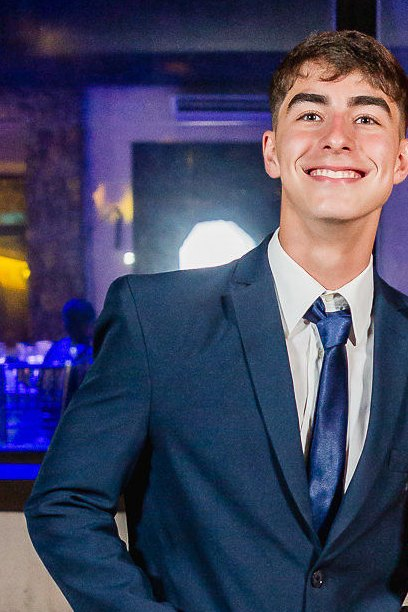
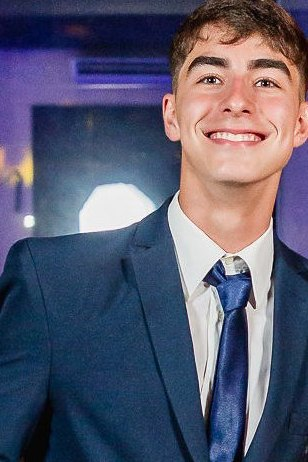
Reescribir el hero y las tres ideas, y reencuadrar el retrato
La frase grande sonaba a texto de máquina: abstracta, sin calor y sin decir
qué hago. Ahora es "Estudio y trabajo. Aprendo y aplico.", y la bajada
presenta los cuatro lugares que enumera la máquina de escribir.

Las tres ideas de "Cómo pienso":
- 01 conserva el título; el cuerpo pierde el arranque explicativo y se queda
  con la anécdota, que es lo que valía.
- 02 pasa de "hacer muchas cosas no es dispersarse" a emprender y formarse
  como la misma cosa.
- 03 pasa de Byung-Chul Han a la fe y la pregunta por el para qué. Salen los
  nombres de los libros; la lectura queda como lo que conecta el resto.

"En el medio leo, toco la guitarra y voy a misa" se resume en "mi vida
personal", en el párrafo de Quién soy y en las dos descripciones del link.

Los cuatro accesos de contacto eran dos píldoras y dos enlaces subrayados:
ahora son la misma píldora con cuatro llamados distintos. La clase .textlink
queda sin uso y se borra.

El retrato tenía la cara al 78% del ancho y seis décimos de fondo
desenfocado. Se reencuadra a 308x462 y se agranda de 17rem a 20rem. Con el
archivo de 408x612 que hay en assets no se puede centrar del todo: la cara
queda al 71%, y para bajarla al 50% haría falta recortar desde la foto
original del teléfono.

og.png llevaba la frase vieja pintada adentro y la foto con el encuadre
viejo. Se regeneró repintando sólo esas dos zonas: el nombre, el filete
naranja, el marcador amarillo y el epígrafe quedan pixel por pixel iguales.
[…]

diff --git a/index.html b/index.html
@@ -15,8 +15,8 @@
   ═══════════════════════════════════════════════════════════════════════
 -->
 
-<title>Lautaro Altamiranda Mastri — Hacer visible lo que vale</title>
-<meta name="description" content="Tengo 19 años y hago demasiadas cosas a la vez: vendo viajes en Mareterra, construyo Costear —un software de costos con IA— y estudio Administración. En el medio leo, toco la guitarra y voy a misa. Tucumán, Argentina.">
+<title>Lautaro Altamiranda Mastri — Estudio y trabajo. Aprendo y aplico.</title>
+<meta name="description" content="Tengo 19 años y hago demasiadas cosas a la vez: vendo viajes en Mareterra, construyo Costear —un software de costos con IA— y estudio Administración. Tucumán, Argentina.">
 <meta name="author" content="Lautaro Altamiranda Mastri">
 <meta name="theme-color" content="#FDF8F0" media="(prefers-color-scheme: light)">
 <meta name="theme-color" content="#171310" media="(prefers-color-scheme: dark)">
@@ -33,16 +33,16 @@
 <meta property="og:type" content="website">
 <meta property="og:locale" content="es_AR">
 <meta property="og:site_name" content="Lautaro Altamiranda Mastri">
-<meta property="og:title" content="Lautaro Altamiranda Mastri — Hacer visible lo que vale">
-<meta property="og:description" content="Tengo 19 años y hago demasiadas cosas a la vez. Vendo viajes, construyo software de costos con IA y estudio. En el medio leo, toco la guitarra y voy a misa.">
+<meta property="og:title" content="Lautaro Altamiranda Mastri — Estudio y trabajo. Aprendo y aplico.">
+<meta property="og:description" content="Tengo 19 años y hago demasiadas cosas a la vez. Vendo viajes, construyo software de costos con IA y estudio. Lo que aprendo a la mañana lo aplico a la tarde.">
 <meta property="og:url" content="https://g-lautiialtamiranda.github.io/">
 <meta property="og:image" content="https://g-lautiialtamiranda.github.io/og.png">
 <meta property="og:image:width" content="1200">
 <meta property="og:image:height" content="630">
-<meta property="og:image:alt" content="Lautaro Altamiranda Mastri — Hacer visible lo que vale, antes de que el otro pueda verlo.">
+<meta property="og:image:alt" content="Lautaro Altamiranda Mastri — Estudio y trabajo. Aprendo y aplico.">
 <meta name="twitter:card" content="summary_large_image">
-<meta name="twitter:title" content="Lautaro Altamiranda Mastri — Hacer visible lo que vale">
-<meta name="twitter:description" content="Tengo 19 años y hago demasiadas cosas a la vez. Vendo viajes, construyo software de costos con IA y estudio.">
+<meta name="twitter:title" content="Lautaro Altamiranda Mastri — Estudio y trabajo. Aprendo y aplico.">
+<meta name="twitter:description" content="Tengo 19 años y hago demasiadas cosas a la vez. Vendo viajes, construyo software de costos con IA y estudio. Lo que aprendo a la mañana lo aplico a la tarde.">
 <meta name="twitter:image" content="https://g-lautiialtamiranda.github.io/og.png">
 
 <link rel="icon" href="favicon.svg" type="image/svg+xml">
@@ -203,8 +203,11 @@ a{color:var(--accent-text)}
 
 /* ── EL RETRATO ──────────────────────────────────────────────────────
    Para cambiar la foto: reemplazá assets/retrato.jpg y assets/retrato.webp
-   por otras dos del mismo tamaño (408×612) y listo. */
-.hero__portrait{margin:0 0 2.25rem;width:min(46vw,11rem)}
+   por otras dos del mismo tamaño (308×462) y listo.
+   Al recortarla, fijate dónde queda la cara: tiene que caer más o menos a la
+   mitad del ancho y a un tercio de la altura. La versión anterior la tenía al
+   78% del ancho y sobraba fondo desenfocado a la izquierda. */
+.hero__portrait{margin:0 0 2.25rem;width:min(52vw,13rem)}
 .hero__portrait img{
   width:100%;border-radius:.7rem;
   border:3px solid var(--surface);box-shadow:var(--shadow);
@@ -217,7 +220,7 @@ a{color:var(--accent-text)}
   /* Dos columnas: el texto a la izquierda y el retrato a la derecha. En
      teléfono no hace falta ninguna regla — el orden del HTML ya es el bueno. */
   .hero__inner{
-    display:grid;grid-template-columns:1fr minmax(0,17rem);
+    display:grid;grid-template-columns:1fr minmax(0,20rem);
     gap:clamp(2rem,6vw,4.5rem);align-items:center;
   }
   .hero__portrait{order:2;margin:0;width:100%}
@@ -232,20 +235,14 @@ a{color:var(--accent-text)}
   text-decoration:none;cursor:pointer;
   transition:transform .18s ease, background-color .18s ease, border-color .18s ease, color .18s ease, box-shadow .18s ease;
 }
-/* Los dos botones de cada par son idénticos a propósito: ninguna de las dos
-   formas de escribirme vale más que la otra. Si algún día querés que uno pese
-   más que el otro, esto es lo único que hay que volver a partir en dos. */
+/* Todos los botones de la página son idénticos a propósito —los dos del hero y
+   los cuatro del contacto—: ninguna de las cuatro formas de escribirme vale más
+   que las otras. Si algún día querés que una pese más que las demás, esto es lo
+   único que hay que volver a partir en dos. */
 .btn--primary{background:var(--accent-text);color:var(--on-accent);box-shadow:var(--shadow)}
 .btn--primary:hover{transform:translateY(-3px) rotate(-1deg);background:var(--accent)}
 .btn--wide{width:100%}
 @media (min-width:30rem){ .btn--wide{width:auto} }
-
-.textlink{
-  font-family:var(--sans);font-size:1rem;font-weight:600;color:var(--accent-text);
-  text-decoration:none;border-bottom:2px solid color-mix(in srgb, var(--yellow) 85%, transparent);
-  padding-bottom:.12rem;transition:border-color .18s ease, opacity .18s ease;
-}
-.textlink:hover{border-color:var(--accent);opacity:.85}
 
 /* ══════════════════ 5. QUIÉN SOY ══════════════════ */
 .about__body{margin-top:2rem;display:grid;gap:1.35rem;max-width:56ch}
@@ -378,14 +375,14 @@ a{color:var(--accent-text)}
       <figure class="hero__portrait">
         <picture>
           <source srcset="assets/retrato.webp" type="image/webp">
-          <img src="assets/retrato.jpg" alt="Retrato de Lautaro Altamiranda Mastri" width="408" height="612" fetchpriority="high">
+          <img src="assets/retrato.jpg" alt="Retrato de Lautaro Altamiranda Mastri" width="308" height="462" fetchpriority="high">
         </picture>
       </figure>
 
       <div class="hero__text">
       <p class="hero__name">Lautaro Altamiranda Mastri · Tucumán, Argentina</p>
-      <h1 id="titulo">Hacer visible lo que vale, <em>antes</em> de que el otro pueda verlo.</h1>
-      <p class="hero__lead">En cuatro lugares distintos, todos los días.</p>
+      <h1 id="titulo">Estudio y trabajo. <em>Aprendo y aplico.</em></h1>
+      <p class="hero__lead">Tengo 19 años y todos los días paso por cuatro lugares distintos.</p>
 
       <!-- La lista que se escribe sola. El texto real está en el script del
            final, en la constante FRASES; la versión de abajo es la que leen
@@ -393,7 +390,7 @@ a{color:var(--accent-text)}
       <p class="typer" id="typer" aria-hidden="true"></p>
       <p class="sr-only">En la parroquia. En la oficina. En la facultad. En la cancha.</p>
 
-      <!-- Los dos botones son iguales a propósito. -->
+      <!-- Los dos botones son iguales a propósito, igual que los cuatro del contacto. -->
       <div class="hero__cta">
         <a class="btn btn--primary btn--wide" href="#contacto">Escribime</a>
         <a class="btn btn--primary btn--wide" href="#ando">En qué ando &darr;</a>
@@ -409,7 +406,7 @@ a{color:var(--accent-text)}
       <p class="eyebrow">Quién soy</p>
       <h2 class="section__title" id="t-quien-soy">Tengo 19 años y hago demasiadas cosas a la vez</h2>
       <div class="about__body">
-        <p>Vendo viajes en Mareterra, la agencia de mi familia. Construyo Costear, un software de costos con inteligencia artificial. Estudio Administración. En el medio leo, toco la guitarra y voy a misa.</p>
+        <p>Vendo viajes en Mareterra, la agencia de mi familia. Construyo Costear, un software de costos con inteligencia artificial. Estudio Administración. Y en el medio, mi vida personal —que es la que sostiene las otras tres—.</p>
         <p>Es difícil que se entienda desde afuera. A veces digo «me encantaría, pero no puedo» y me contestan «cómo no vas a poder si no haces nada?». No los culpo: de lejos parecen cuatro vidas sueltas. No lo son. <span class="mark">Todo se compagina en una sola persona.</span></p>
         <p class="about__kicker">Son muchas cosas? Sí. Las voy a hacer todas bien? Posiblemente no. Pero no quiero dejar nada sin probar.</p>
       </div>
@@ -524,19 +521,19 @@ a{color:var(--accent-text)}
         <li class="idea">
           <span class="idea__num" aria-hidden="true">01</span>
           <h3 class="idea__name">La inteligencia artificial sirve para ganar tiempo, no para reemplazarte</h3>
-          <p class="idea__what">Esa es mi síntesis en una línea. La uso todos los días y justamente por eso desconfío con método: una vez comparé el resumen automático de una visita a una empresa contra la grabación entera y encontré diez errores. Uno multiplicaba un costo por trece. Otro se había inventado el nombre de una persona. Desde entonces ningún número que sale de una máquina entra a un informe sin que alguien lo mire dos veces.</p>
+          <p class="idea__what">La uso todos los días, y justamente por eso desconfío. Una vez comparé el resumen automático de una visita a una empresa contra la grabación entera: diez errores. Uno multiplicaba un costo por trece. Otro se había inventado el nombre de una persona. Desde entonces ningún número que sale de una máquina entra a un informe sin que alguien lo mire dos veces.</p>
         </li>
 
         <li class="idea">
           <span class="idea__num" aria-hidden="true">02</span>
-          <h3 class="idea__name">Hacer muchas cosas no es dispersarse</h3>
-          <p class="idea__what">Es lo que más me repito. Uno siente que tiene un millón de cosas en la cabeza, dispersadas y al mismo tiempo juntas, porque todo se compagina en una sola persona. Vender un viaje, medir un costo, escribir, rezar: <em>es la misma operación en cuatro lugares</em>. Hacer que algo que todavía no se ve, se vea.</p>
+          <h3 class="idea__name">Emprender es la forma más cara de estudiar, y la que más enseña</h3>
+          <p class="idea__what">Lo que estudio a la mañana lo pruebo a la tarde: en una cotización, en un costo mal medido, en una venta que se cae. Y lo que sale mal a la tarde me manda de vuelta a estudiar. De eso no me toma examen la facultad: <em>me lo toma el cliente</em>. Por eso no espero a estar listo para empezar algo. Empiezo, y me formo en el camino.</p>
         </li>
 
         <li class="idea">
           <span class="idea__num" aria-hidden="true">03</span>
-          <h3 class="idea__name">Pensar es un acto de rebeldía</h3>
-          <p class="idea__what">La idea es de Byung-Chul Han, en <em>La sociedad del cansancio</em>, y me movió más que ningún otro libro: vivimos en un mundo hiperactivo donde uno termina siendo víctima y verdugo de sí mismo. Leer —Han, Salinger, Orwell, Frankl— es lo que me saca de ahí un rato. No leo para tener una opinión lista: leo para poder discutir conmigo mismo.</p>
+          <h3 class="idea__name">Si no sé para qué, lo demás es ruido</h3>
+          <p class="idea__what">Creo en Dios. Voy a misa, estoy en la parroquia, y esa es la parte que no entra en ningún currículum, aunque sea la que sostiene todo el resto. Para qué estamos acá es una pregunta que a los 19 casi nadie se hace, y leer es lo que me obliga a volver a hacérmela: es el rato en que lo que rezo, lo que estudio y lo que vendo <em>vuelven a ser una sola cosa</em>. No leo para tener una opinión lista: leo para poder discutir conmigo mismo.</p>
         </li>
 
       </ul>
@@ -563,11 +560,11 @@ a{color:var(--accent-text)}
         </li>
         <li class="contact__row">
           <!-- [CONTACTO] Instagram -->
-          <a class="textlink" href="https://www.instagram.com/lautiialtamiranda/" target="_blank" rel="noopener noreferrer">Seguime en Instagram &rarr;</a>
+          <a class="btn btn--primary btn--wide" href="https://www.instagram.com/lautiialtamiranda/" target="_blank" rel="noopener noreferrer">Seguime en Instagram</a>
         </li>
         <li class="contact__row">
           <!-- [CONTACTO] LinkedIn -->
-          <a class="textlink" href="https://www.linkedin.com/in/lautaroaltamirandamastri/" target="_blank" rel="noopener noreferrer">Conectemos en LinkedIn &rarr;</a>
+          <a class="btn btn--primary btn--wide" href="https://www.linkedin.com/in/lautaroaltamirandamastri/" target="_blank" rel="noopener noreferrer">Conectemos en LinkedIn</a>
         </li>
       </ul>
     </div>

diff --git a/README.md b/README.md
@@ -71,6 +71,13 @@ está entre `>` y `</p>`:
 > ⚠ Si cambiás la frase grande del hero o la descripción, acordate de cambiar también el
 > `<title>` y las etiquetas `og:` de arriba de todo, que son las que se ven cuando pegás el
 > link en WhatsApp.
+>
+> Y **regenerá `og.png`**: la frase grande no está escrita ahí como texto, está *pintada
+> dentro de la imagen*. Si no la rehacés, la página va a decir una cosa y la
+> previsualización de WhatsApp otra. Es una imagen de 1200×630 con el fondo crema, tu
+> nombre arriba en versalitas con el filete naranja, la frase en Instrument Serif (la
+> segunda línea en itálica naranja), el epígrafe con el marcador amarillo y el mismo
+> retrato que el hero, rotado y con marco blanco.
 
 ### Los datos de contacto
 
@@ -94,7 +101,7 @@ manteniendo el nombre:
 
 | Archivo | Qué es | Recorte |
 |---|---|---|
-| `retrato` | El retrato del hero | Vertical 2:3 (408×612) |
+| `retrato` | El retrato del hero | Vertical 2:3 (308×462) |
 | `parroquia` | El grupo de la parroquia | Vertical 3:4 (440×587) |
 | `costear-equipo` | Vos con dos socios de Costear | Vertical 3:4 (440×587) |
 | `emprende-u` | Presentando, con el sistema proyectado | Vertical 3:4 (440×587) |
